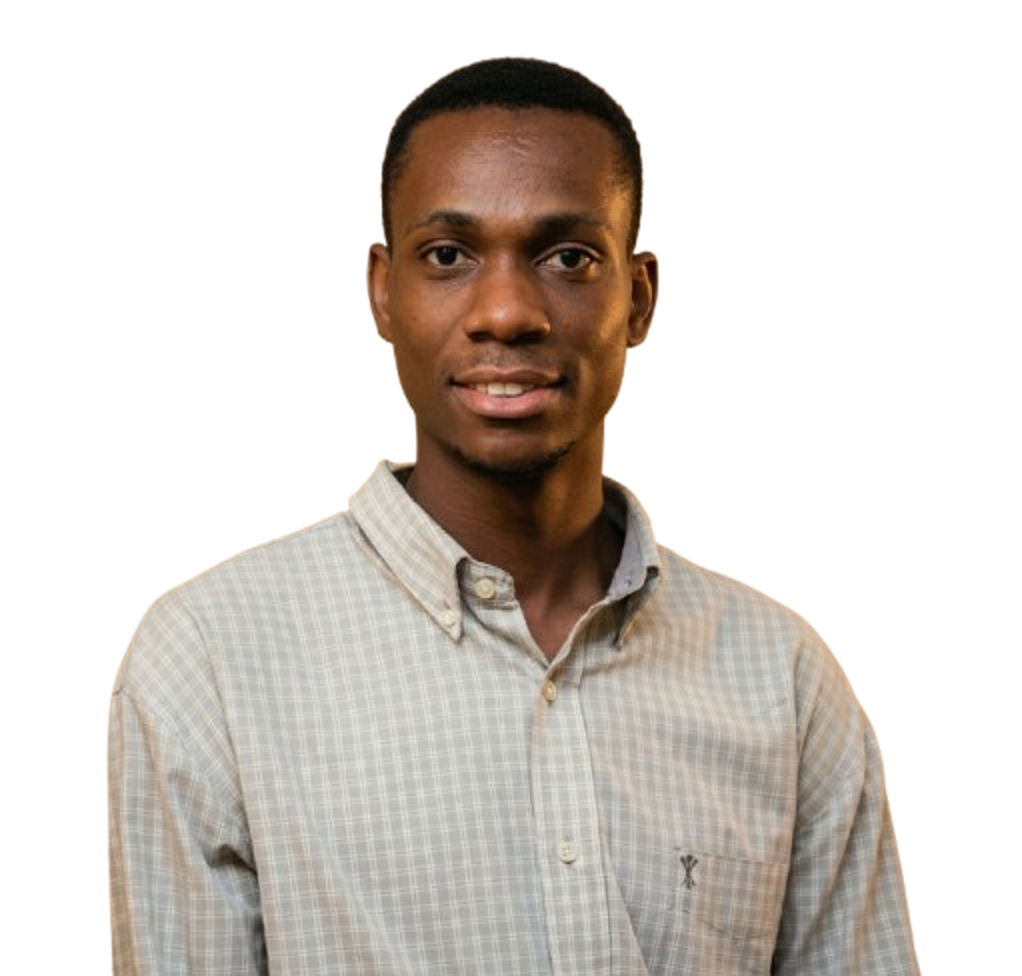
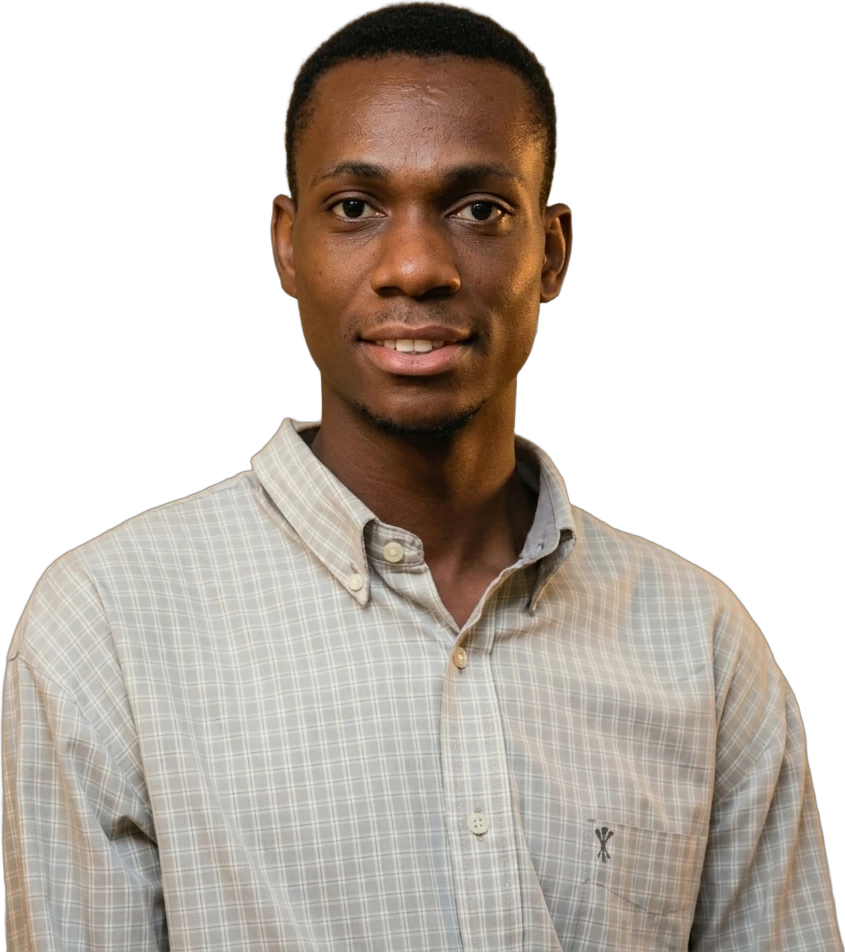
fix: replace blurry portrait with sharp cutout, contained against gradient

diff --git a/src/app/page.tsx b/src/app/page.tsx
@@ -284,8 +284,7 @@ export default function Home() {
                       alt="Julius Abaabagre"
                       fill
                       sizes="(min-width: 768px) 40vw, 90vw"
-                      className="object-cover object-[center_bottom]"
-                      style={{ transform: "scale(1.1) translateY(5%)", transformOrigin: "center bottom" }}
+                      className="object-contain object-bottom"
                     />
                   </div>
                   <div className="mt-[1.1rem] font-display text-[1.05rem] font-semibold tracking-[-.01em] text-fg">
